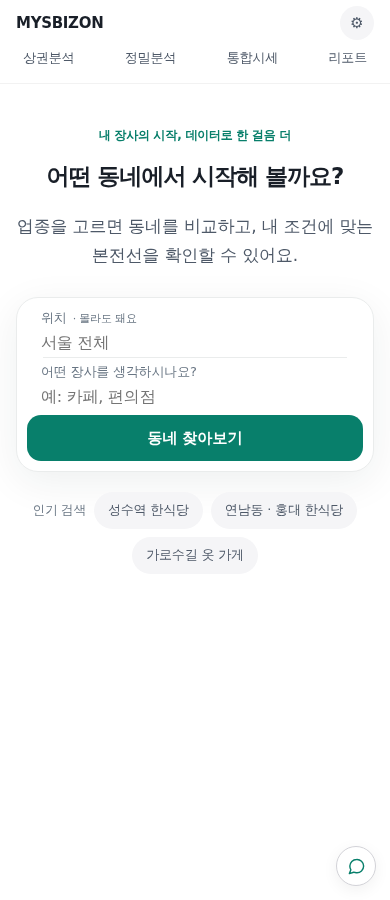
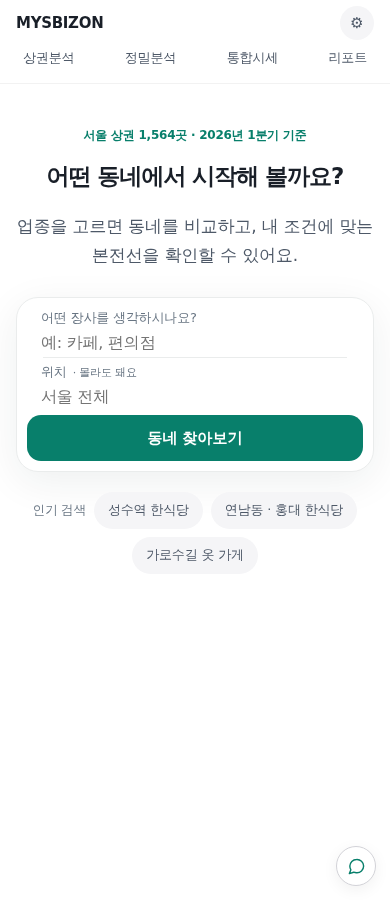
홈 — 업종을 먼저 묻고, 첫 줄을 표어에서 자료로 바꾼다
**입력 순서를 뒤집었다.** 지금까지 위치 → 업종 순으로 물었는데, 이 서비스의
설명 문구는 '업종을 말해 주시면 서울 동네를 좋은 순서대로 줄 세워 드려요' 다.
화면이 그 문장과 반대 순서였다. 위치는 이미 '몰라도 돼요' 라고 적혀 있으니
업종이 먼저 오는 게 맞다.
  ※ 빈 칸에서 Backspace 로 앞 칸에 가는 동작도 같이 옮겼다(업종이 첫 칸이 됐다).

**첫 줄을 슬로건에서 자료로.** '내 장사의 시작, 데이터로 한 걸음 더' 는
아무 정보도 주지 않는다. 자료가 붙으면 그 자리에 실제 값을 적는다 —
'서울 상권 1,564곳 · 2026년 1분기 기준'. 무엇을 근거로 말하는지가
첫 줄에 오는 편이 이 서비스답다. 자료가 아직 없을 때만 옛 문구로 남는다.

확인: npm test 31/31 · check:html · 390px 캡처

Claude-Session: https://claude.ai/code/session_01DSv5WNHRuPBTWcjbVKRQJm

Changed region(s): [[0.0923, 0.3422, 0.4923, 0.4667], [0.2154, 0.1244, 0.8, 0.1556]]

diff --git a/frontend/index.html b/frontend/index.html
@@ -257,6 +257,20 @@
 
           <div class="hero-search" data-search="1" style="{{ searchWrap }}">
             <div data-fl-ref="1" style="{{ pickerRow }}">
+              <div onClick="{{ openInd }}" style="{{ indBtn }}">
+                <div style="min-width:0;flex:1;display:flex;flex-direction:column;gap:2px">
+                  <span style="font-size:13px;font-weight:500;color:var(--ink3);white-space:nowrap;overflow:hidden;text-overflow:ellipsis">{{ labIndustry }}</span>
+                  <input maxLength="200" value="{{ iq }}" onChange="{{ onIndQ }}" onFocus="{{ openInd }}" onKeyDown="{{ onIndKey }}" aria-label="{{ labIndustry }}" placeholder="{{ phIndustry }}" style="{{ segInput }}">
+                </div>
+                <sc-if value="{{ hasIndVal }}">
+                  <span role="button" tabIndex="0" aria-label="업종 지우기" onClick="{{ clearInd }}" style="{{ clearStyle }}" style-hover="background:var(--line-strong)">
+                    <svg viewBox="0 0 24 24" fill="none" stroke="currentColor" stroke-width="2.6" stroke-linecap="round" style="width:11px;height:11px;display:block">
+                      <sc-for list="{{ icoX }}" as="p"><path d="{{ p.d }}"></path></sc-for>
+                    </svg>
+                  </span>
+                </sc-if>
+              </div>
+              <div style="{{ dividerStyle }}"></div>
               <div onClick="{{ openZone }}" style="{{ zoneBtn }}">
                 <div style="min-width:0;flex:1;display:flex;flex-direction:column;gap:2px">
                   <span style="display:flex;align-items:baseline;gap:6px;min-width:0">
@@ -267,20 +281,6 @@
                 </div>
                 <sc-if value="{{ hasZone }}">
                   <span role="button" tabIndex="0" aria-label="지역 지우기" onClick="{{ clearZone }}" style="{{ clearStyle }}" style-hover="background:var(--line-strong)">
-                    <svg viewBox="0 0 24 24" fill="none" stroke="currentColor" stroke-width="2.6" stroke-linecap="round" style="width:11px;height:11px;display:block">
-                      <sc-for list="{{ icoX }}" as="p"><path d="{{ p.d }}"></path></sc-for>
-                    </svg>
-                  </span>
-                </sc-if>
-              </div>
-              <div style="{{ dividerStyle }}"></div>
-              <div onClick="{{ openInd }}" style="{{ indBtn }}">
-                <div style="min-width:0;flex:1;display:flex;flex-direction:column;gap:2px">
-                  <span style="font-size:13px;font-weight:500;color:var(--ink3);white-space:nowrap;overflow:hidden;text-overflow:ellipsis">{{ labIndustry }}</span>
-                  <input maxLength="200" value="{{ iq }}" onChange="{{ onIndQ }}" onFocus="{{ openInd }}" onKeyDown="{{ onIndKey }}" aria-label="{{ labIndustry }}" placeholder="{{ phIndustry }}" style="{{ segInput }}">
-                </div>
-                <sc-if value="{{ hasIndVal }}">
-                  <span role="button" tabIndex="0" aria-label="업종 지우기" onClick="{{ clearInd }}" style="{{ clearStyle }}" style-hover="background:var(--line-strong)">
                     <svg viewBox="0 0 24 24" fill="none" stroke="currentColor" stroke-width="2.6" stroke-linecap="round" style="width:11px;height:11px;display:block">
                       <sc-for list="{{ icoX }}" as="p"><path d="{{ p.d }}"></path></sc-for>
                     </svg>

diff --git a/frontend/screens/01-home.html b/frontend/screens/01-home.html
@@ -10,6 +10,20 @@
 
           <div class="hero-search" data-search="1" style="{{ searchWrap }}">
             <div data-fl-ref="1" style="{{ pickerRow }}">
+              <div onClick="{{ openInd }}" style="{{ indBtn }}">
+                <div style="min-width:0;flex:1;display:flex;flex-direction:column;gap:2px">
+                  <span style="font-size:13px;font-weight:500;color:var(--ink3);white-space:nowrap;overflow:hidden;text-overflow:ellipsis">{{ labIndustry }}</span>
+                  <input maxLength="200" value="{{ iq }}" onChange="{{ onIndQ }}" onFocus="{{ openInd }}" onKeyDown="{{ onIndKey }}" aria-label="{{ labIndustry }}" placeholder="{{ phIndustry }}" style="{{ segInput }}">
+                </div>
+                <sc-if value="{{ hasIndVal }}">
+                  <span role="button" tabIndex="0" aria-label="업종 지우기" onClick="{{ clearInd }}" style="{{ clearStyle }}" style-hover="background:var(--line-strong)">
+                    <svg viewBox="0 0 24 24" fill="none" stroke="currentColor" stroke-width="2.6" stroke-linecap="round" style="width:11px;height:11px;display:block">
+                      <sc-for list="{{ icoX }}" as="p"><path d="{{ p.d }}"></path></sc-for>
+                    </svg>
+                  </span>
+                </sc-if>
+              </div>
+              <div style="{{ dividerStyle }}"></div>
               <div onClick="{{ openZone }}" style="{{ zoneBtn }}">
                 <div style="min-width:0;flex:1;display:flex;flex-direction:column;gap:2px">
                   <span style="display:flex;align-items:baseline;gap:6px;min-width:0">
@@ -20,20 +34,6 @@
                 </div>
                 <sc-if value="{{ hasZone }}">
                   <span role="button" tabIndex="0" aria-label="지역 지우기" onClick="{{ clearZone }}" style="{{ clearStyle }}" style-hover="background:var(--line-strong)">
-                    <svg viewBox="0 0 24 24" fill="none" stroke="currentColor" stroke-width="2.6" stroke-linecap="round" style="width:11px;height:11px;display:block">
-                      <sc-for list="{{ icoX }}" as="p"><path d="{{ p.d }}"></path></sc-for>
-                    </svg>
-                  </span>
-                </sc-if>
-              </div>
-              <div style="{{ dividerStyle }}"></div>
-              <div onClick="{{ openInd }}" style="{{ indBtn }}">
-                <div style="min-width:0;flex:1;display:flex;flex-direction:column;gap:2px">
-                  <span style="font-size:13px;font-weight:500;color:var(--ink3);white-space:nowrap;overflow:hidden;text-overflow:ellipsis">{{ labIndustry }}</span>
-                  <input maxLength="200" value="{{ iq }}" onChange="{{ onIndQ }}" onFocus="{{ openInd }}" onKeyDown="{{ onIndKey }}" aria-label="{{ labIndustry }}" placeholder="{{ phIndustry }}" style="{{ segInput }}">
-                </div>
-                <sc-if value="{{ hasIndVal }}">
-                  <span role="button" tabIndex="0" aria-label="업종 지우기" onClick="{{ clearInd }}" style="{{ clearStyle }}" style-hover="background:var(--line-strong)">
                     <svg viewBox="0 0 24 24" fill="none" stroke="currentColor" stroke-width="2.6" stroke-linecap="round" style="width:11px;height:11px;display:block">
                       <sc-for list="{{ icoX }}" as="p"><path d="{{ p.d }}"></path></sc-for>
                     </svg>

diff --git a/frontend/logic/screens.js b/frontend/logic/screens.js
@@ -173,7 +173,11 @@ globalThis.MysbizonParts.screens = {
     return {
       badgeStyle:'display:inline-flex;align-items:center;gap:7px;font-size:13px;color:var(--ink2);background:var(--surface);border-radius:999px;padding:7px 14px;margin:0 auto 26px;'
         +(S.skip?'opacity:1':'opacity:0;animation:lateIn .7s cubic-bezier(.22,.7,.25,1) .5s forwards'),
-      heroEyebrow:this.t('home.eyebrow'),
+      // 첫 줄은 표어가 아니라 '무엇을 근거로 말하는지'다.
+      // 자료가 붙기 전에는 슬로건으로 두고, 붙으면 실제 개수·분기로 바꾼다.
+      heroEyebrow:(S.zi && S.zi.n_zones)
+        ? this.t('home.stamp',{n:S.zi.n_zones.toLocaleString(), q:this.qtr(S.zi.quarter)})
+        : this.t('home.eyebrow'),
       heroTitle:this.t('home.title'),
       heroSub:this.t('home.sub'),
       labLocation:this.t('home.location'),
@@ -236,6 +240,14 @@ globalThis.MysbizonParts.screens = {
           if(c===0){ this.setState({homeZoneName:null,zoneId:null,sel:null,zq:'',pickOpen:null,cursor:0}); return; }
           const f=zoneList[c-1];
           if(f) this.setState({homeZoneName:f.name,zoneId:f.id,zq:f.name,pickOpen:null,cursor:0});
+          return;
+        }
+        // 빈 칸에서 Backspace 면 앞 칸(업종)으로. 업종이 첫 칸이라 input[0] 이다.
+        if(e.key==='Backspace' && !zq){
+          e.preventDefault();
+          this.setState({pickOpen:'ind'});
+          const el=document.querySelectorAll('[data-search] input')[0];
+          if(el) el.focus();
         }
       },
       onIndKey:e=>{
@@ -248,13 +260,6 @@ globalThis.MysbizonParts.screens = {
           const f=list[S.cursor||0];
           if(f) this.setState({homeInd:f,ind:f,iq:this.indName(f),pickOpen:null,cursor:0});
           return;
-        }
-        // 빈 칸에서 Backspace면 앞 칸으로
-        if(e.key==='Backspace' && !iq){
-          e.preventDefault();
-          this.setState({pickOpen:'zone'});
-          const el=document.querySelectorAll('[data-search] input')[0];
-          if(el) el.focus();
         }
       },
       dividerStyle:this.L('flex:none;height:1px;margin:0 16px;background:var(--line)','flex:none;width:1px;height:26px;background:var(--line)','flex:none;width:1px;height:26px;background:var(--line)'),

diff --git a/frontend/logic/i18n.js b/frontend/logic/i18n.js
@@ -139,6 +139,7 @@ globalThis.MysbizonParts.i18n = {
 
       'hub.peekTop':'{ind} · {n}곳 중 1위 {zone}',
       'hub.peekRank':'{zone} · {n}곳 중 {r}위',
+      'home.stamp':'서울 상권 {n}곳 · {q} 기준',
       'home.eyebrow':'내 장사의 시작, 데이터로 한 걸음 더',
       'home.title':'어떤 동네에서 시작해 볼까요?',
       'home.sub':'업종을 고르면 동네를 비교하고, 내 조건에 맞는 본전선을 확인할 수 있어요.',
